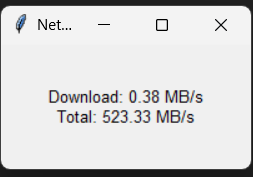
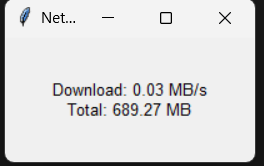
Fix unit display and update screenshot

Changed region(s): [[0.0, 0.0, 0.996, 0.994], [0.166, 0.4819, 0.8024, 0.7229], [0.3874, 0.0904, 0.4427, 0.1506]]

diff --git a/app.py b/app.py
@@ -10,7 +10,7 @@ def update_speed():
     last_recv = net_io.bytes_recv
     total = net_io.bytes_recv / 1024 / 1024  # MB
 
-    label.config(text=f"Download: {download_speed:.2f} MB/s\nTotal: {total:.2f} MB/s")
+    label.config(text=f"Download: {download_speed:.2f} MB/s\nTotal: {total:.2f} MB")
     root.after(1000, update_speed)
 
 
